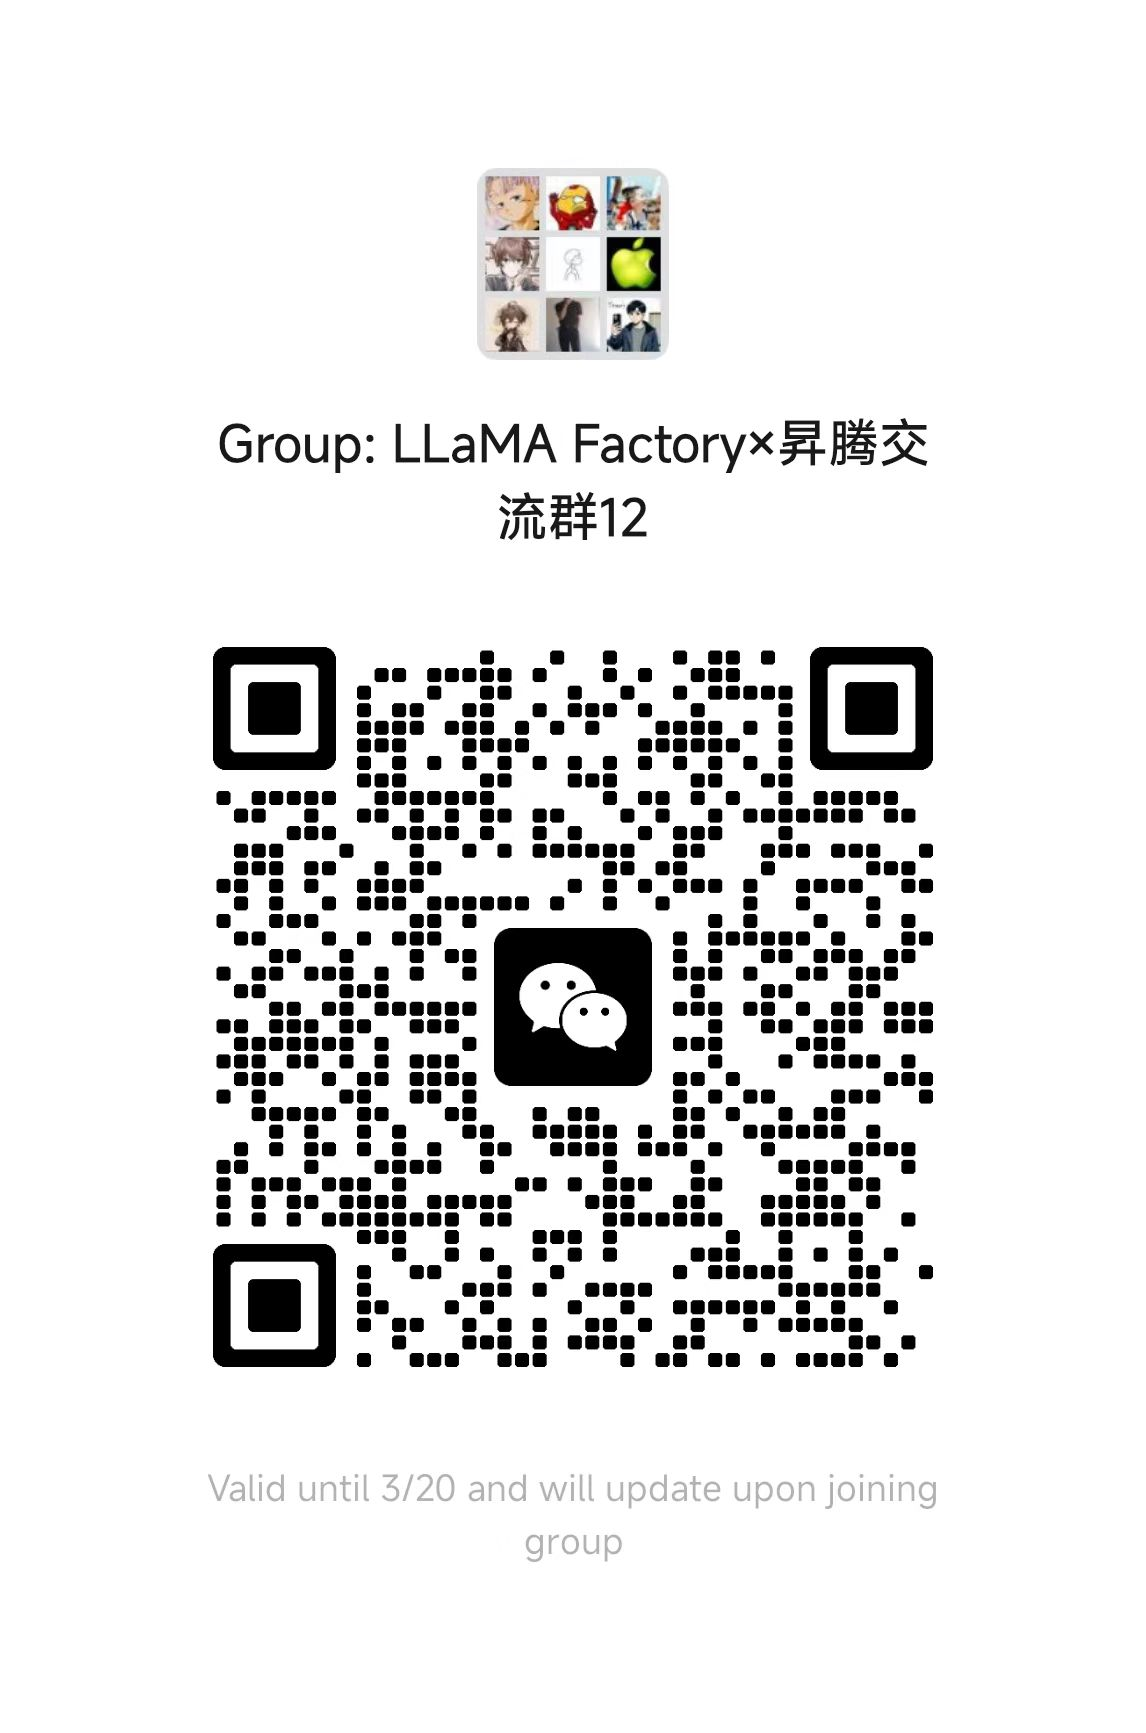
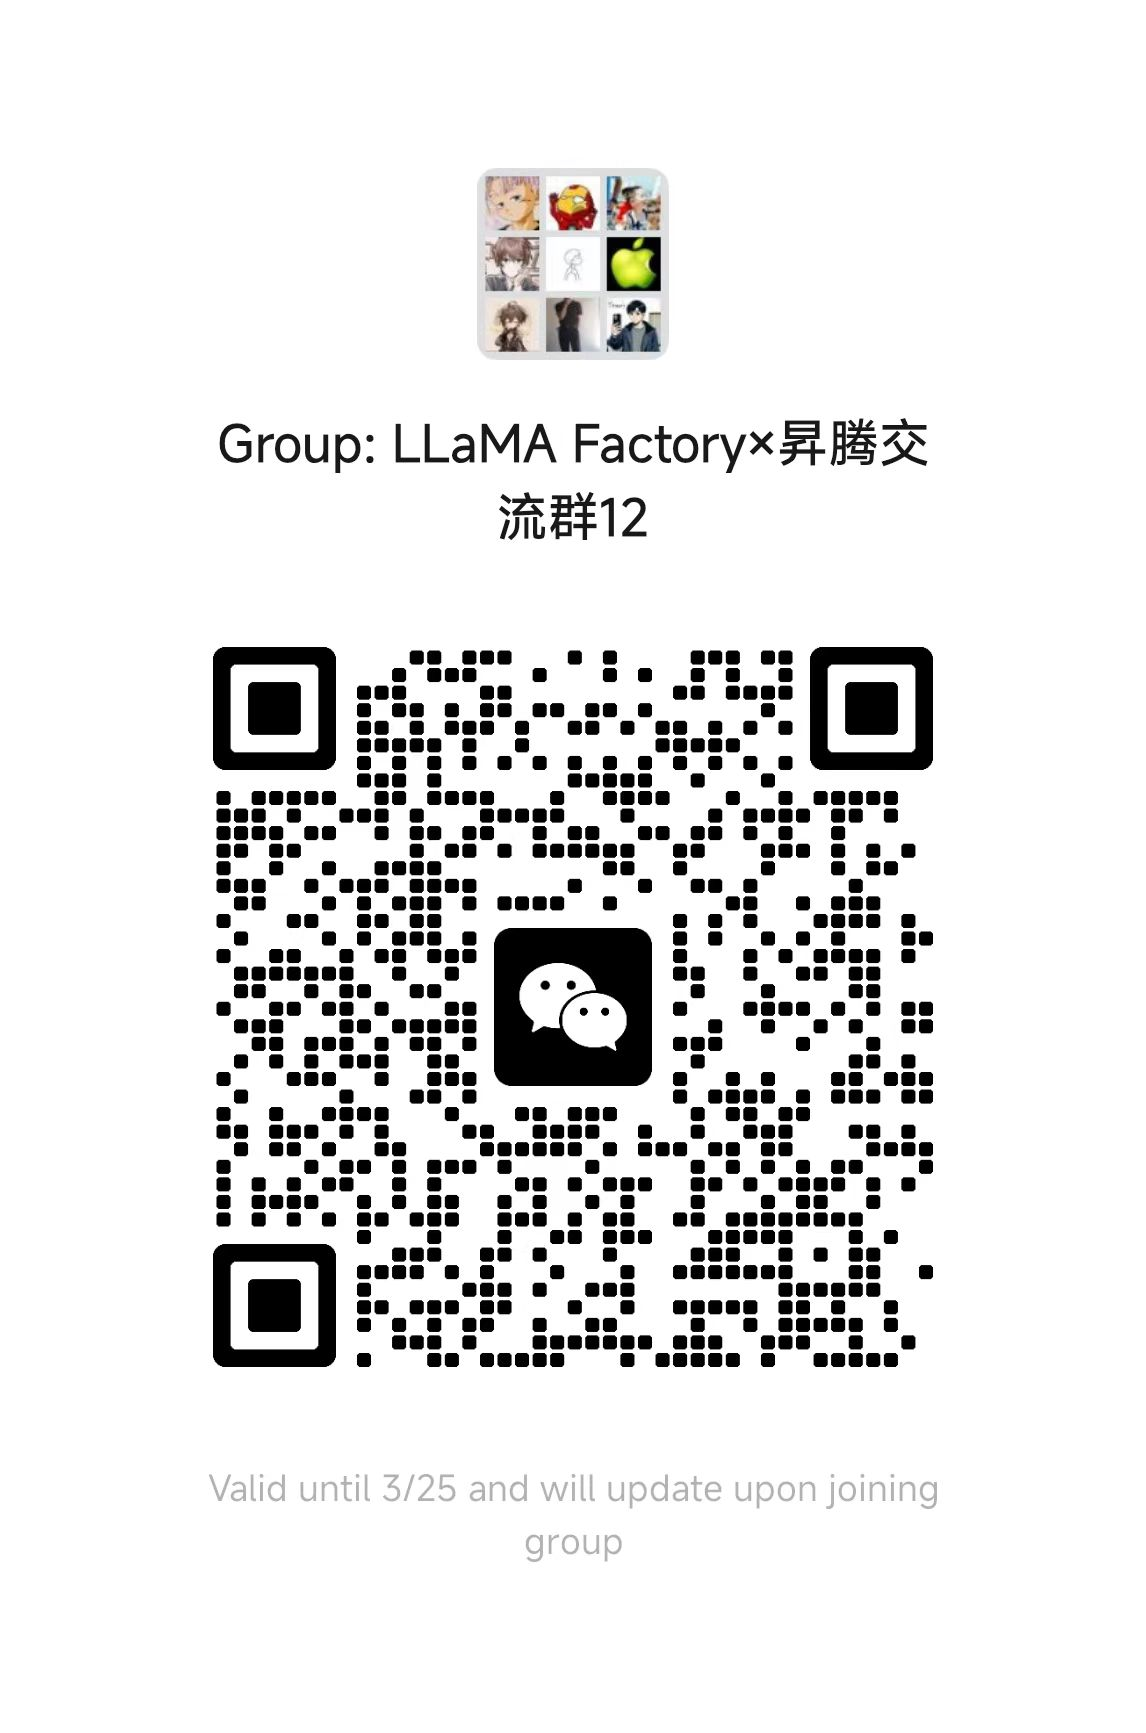
[assets] update wechat (#7361)

diff --git a/src/llamafactory/data/template.py b/src/llamafactory/data/template.py
@@ -884,8 +884,8 @@ register_template(
     format_user=StringFormatter(slots=["<|bos|>user\n{{content}}<|eos|>\n<|bos|>assistant\n"]),
     format_assistant=StringFormatter(slots=["{{content}}<|eos|>\n"]),
     format_system=StringFormatter(slots=["<|bos|>system\n{{content}}<|eos|>\n"]),
-    format_prefix=EmptyFormatter(slots=["<|bos|>"] ),
-    stop_words=["<|eos|>"]
+    format_prefix=EmptyFormatter(slots=["<|bos|>"]),
+    stop_words=["<|eos|>"],
 )
 
 
